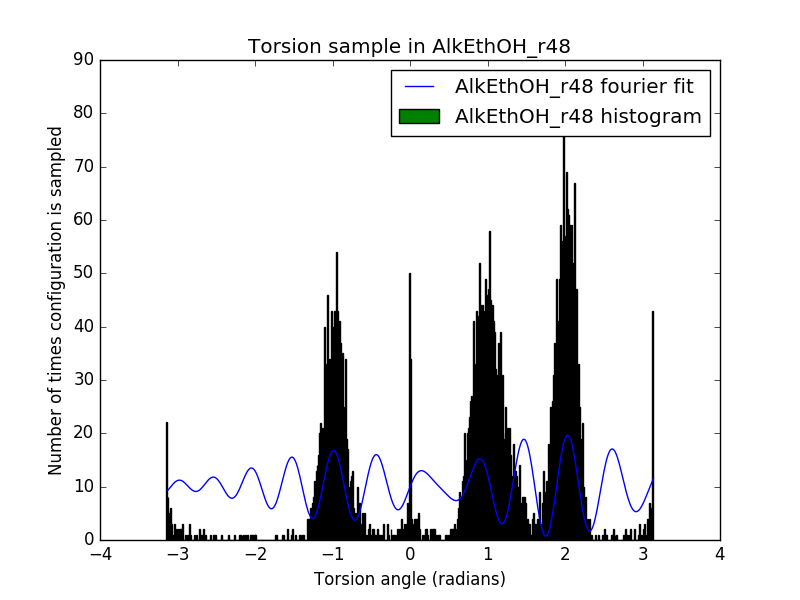
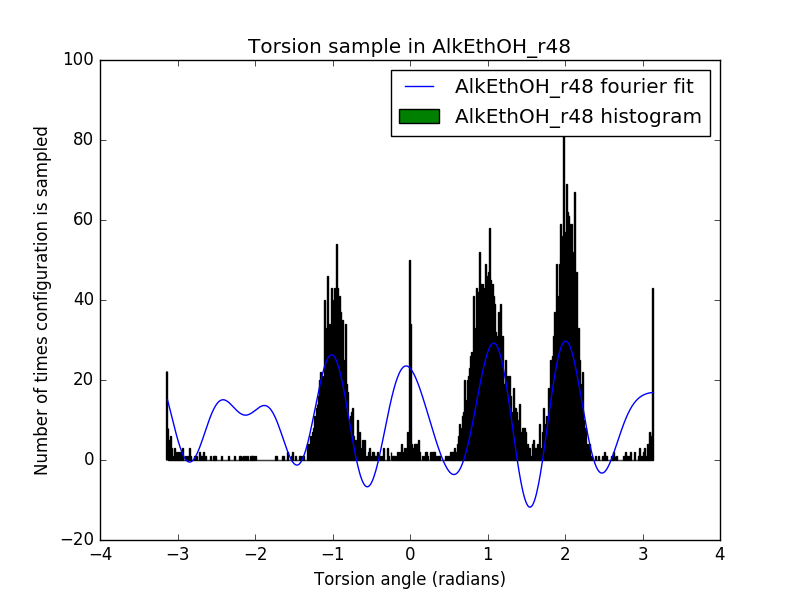
double period

diff --git a/single-molecule-property-generation/least_squares_fit_example.py b/single-molecule-property-generation/least_squares_fit_example.py
@@ -512,7 +512,7 @@ plt.figure()
 #	if j==0.:
 #           n1[i]=5.
 
-popt, pcov = sci.curve_fit(fourier, bins1[1:], n1, [7.0,1.0,0.0]*3, maxfev=100000)
+popt, pcov = sci.curve_fit(fourier, bins1[1:], n1, [7.0,2.0,0.0]*3, maxfev=100000)
 plt.plot(bins1[1:],fourier(bins1[1:],*popt),label='AlkEthOH_r48 fourier fit')
 plt.ylabel('Number of times configuration is sampled')
 plt.xlabel('Torsion angle (radians)')
